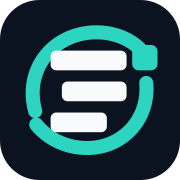
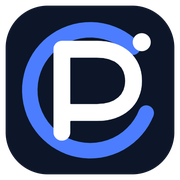
feat: redesign OrbitPage brand identity

diff --git a/docs/brand/README.md b/docs/brand/README.md
@@ -1,6 +1,6 @@
 # OrbitPage brand assets
 
-The OrbitPage mark combines an open page frame with a two-node path. The shape is intentionally simple enough to stay recognizable as a browser favicon and app icon.
+The OrbitPage mark is an `O/P` monogram: an open orbit wraps around a page-shaped letter `P`. The open path represents a page that can keep evolving, while the node identifies the public destination people share. Its two bold strokes remain recognizable as a 16 px favicon without relying on small text or decorative effects.
 
 ## Production assets
 
@@ -12,8 +12,9 @@ The OrbitPage mark combines an open page frame with a two-node path. The shape i
 
 ## Palette
 
-- Ink: `#111827`
-- Paper: `#F8FAFC`
-- Orbit teal: `#20A3A8`
+- Night: `#0C1628`
+- Paper: `#FFFFFF`
+- Orbit blue: `#4C7DFF`
+- Wordmark ink: `#101828`
 
-Keep clear space around the mark equal to at least one node width. Do not add gradients, shadows, rotations, or alternate colors inside the mark. The SVG files are the canonical production artwork.
+Keep clear space around the mark equal to at least the white node diameter. Do not add gradients, shadows, rotations, outlines or alternate internal colors. Do not separate the node from the orbit or typeset initials inside the symbol. The SVG files are the canonical production artwork; PNG and ICO files are generated from them.
